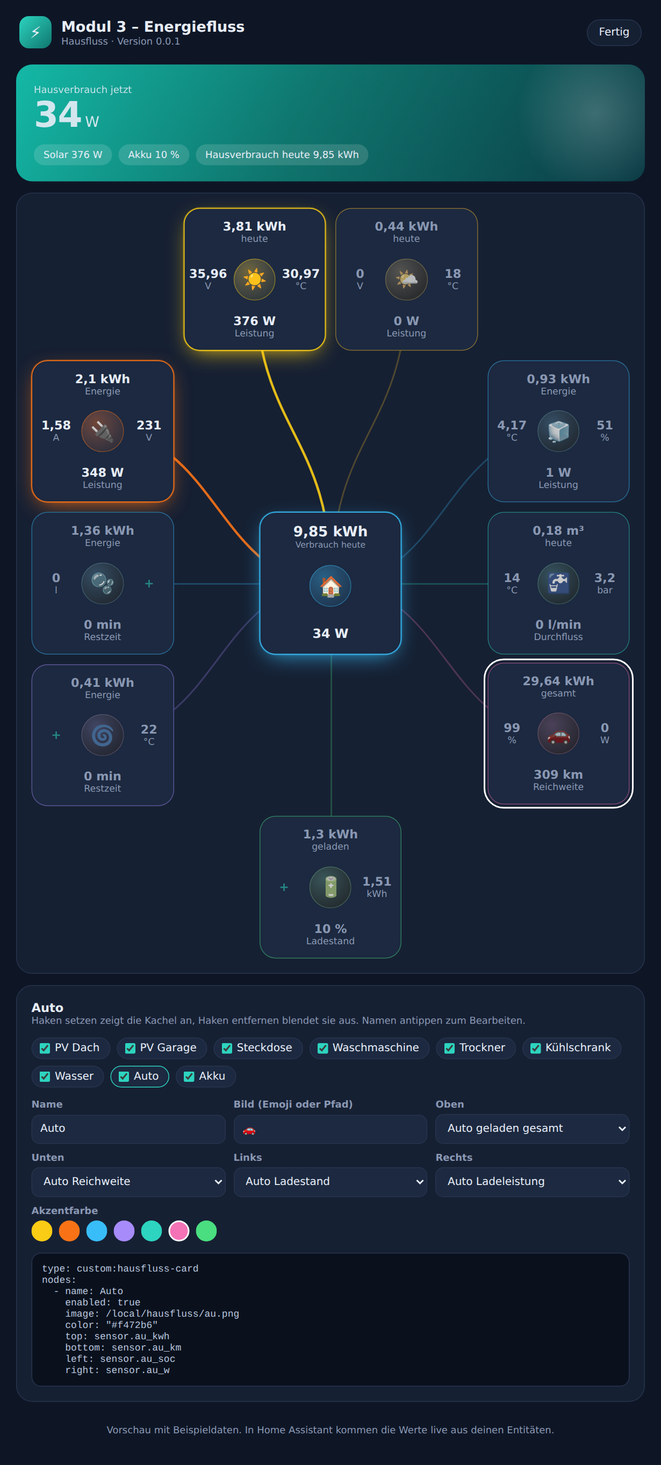
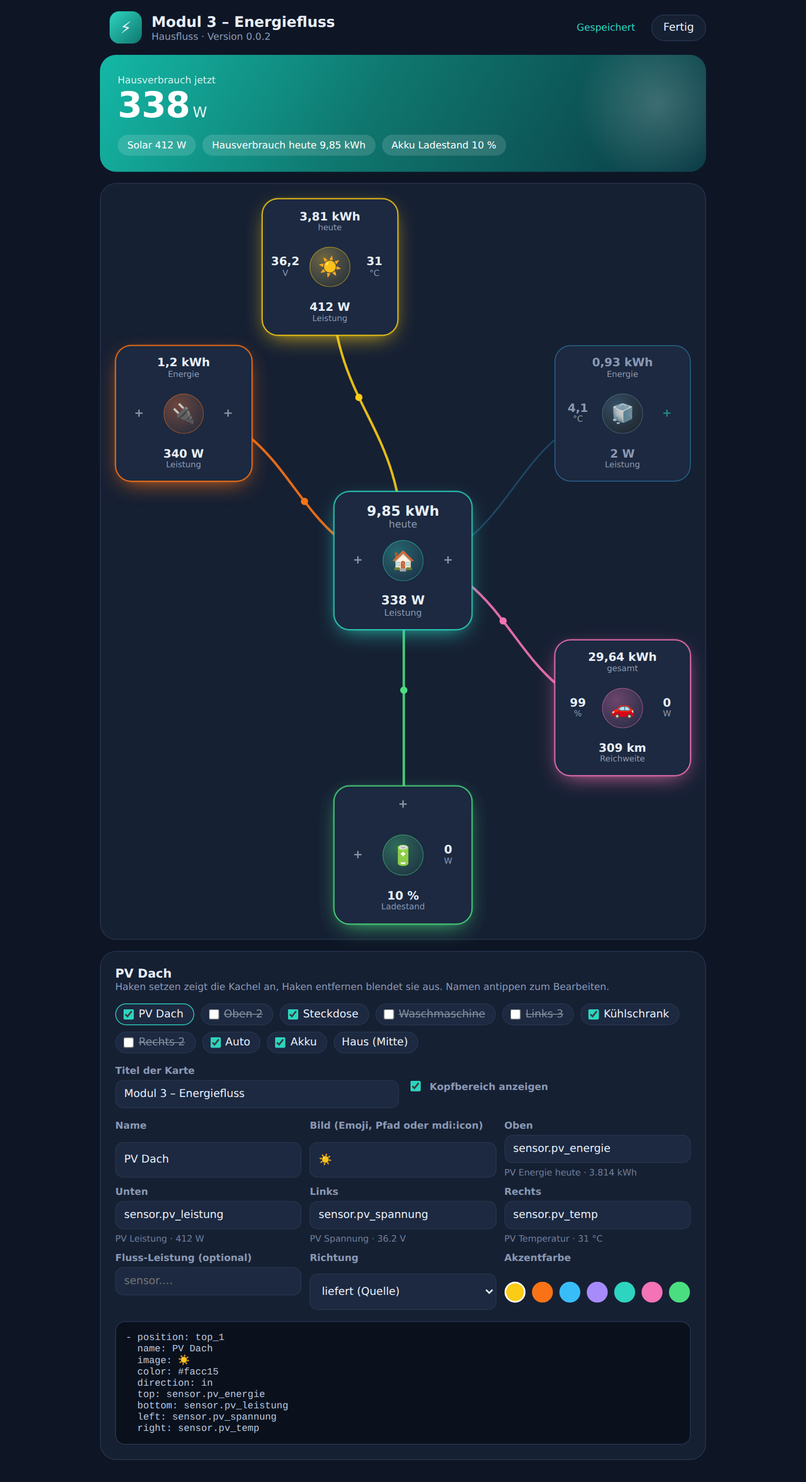
Add files via upload

Changed region(s): [[0.0, 0.0, 0.9886, 0.9978], [0.6488, 0.2183, 0.9577, 0.5613], [0.8033, 0.9666, 0.8341, 0.9978]]

diff --git a/custom_components/hausfluss/frontend/hausfluss-card.js b/custom_components/hausfluss/frontend/hausfluss-card.js
@@ -6,40 +6,52 @@ const POS = {
   right_1: [4, 2, 'out', '#38bdf8'], right_2: [4, 3, 'out', '#2dd4bf'], right_3: [4, 4, 'out', '#f472b6'],
   bottom: [2, 5, 'out', '#4ade80'],
 };
-const POSNAME = { top_1: 'Oben 1', top_2: 'Oben 2', left_1: 'Links 1', left_2: 'Links 2', left_3: 'Links 3', right_1: 'Rechts 1', right_2: 'Rechts 2', right_3: 'Rechts 3', bottom: 'Unten', hub: 'Haus (Mitte)' };
+const POSNAME = { top_1: 'Oben 1', top_2: 'Oben 2', left_1: 'Links 1', left_2: 'Links 2', left_3: 'Links 3', right_1: 'Rechts 1', right_2: 'Rechts 2', right_3: 'Rechts 3', bottom: 'Unten' };
 const SIDES = ['top', 'bottom', 'left', 'right'];
+const FL = { top: 'Oben', bottom: 'Unten', left: 'Links', right: 'Rechts' };
+const SW = ['#facc15', '#f97316', '#38bdf8', '#a78bfa', '#2dd4bf', '#f472b6', '#4ade80'];
 const esc = (s) => String(s ?? '').replace(/[&<>"]/g, (c) => ({ '&': '&amp;', '<': '&lt;', '>': '&gt;', '"': '&quot;' }[c]));
 const img = (v) => /^(\/|https?:)/.test(v) ? `<img src="${esc(v)}" alt="">` : /^mdi:/.test(v) ? `<ha-icon icon="${esc(v)}"></ha-icon>` : esc(v);
+const toW = (st) => { const v = parseFloat(st?.state); return isNaN(v) ? NaN : /^kW$/i.test(st.attributes.unit_of_measurement || '') ? v * 1000 : v; };
 
 const CSS = `
 :host{display:block}
-ha-card{display:block;background:#162033;color:#e8eef8;border:1px solid #26344d;border-radius:20px;padding:16px;font-family:inherit}
-.head{display:flex;align-items:center;gap:10px;margin:0 2px 14px;font-size:17px;font-weight:700}
-.head i{width:34px;height:34px;border-radius:10px;background:linear-gradient(135deg,#2dd4bf,#0f766e);display:grid;place-items:center;font-style:normal}
-.board{position:relative}
+ha-card{display:block;background:none;box-shadow:none;border:none;color:#e8eef8;font-family:inherit}
+.wrap{display:grid;gap:14px}
+.head{display:flex;align-items:center;gap:12px;font-size:18px;font-weight:700}
+.head i{width:40px;height:40px;border-radius:12px;background:linear-gradient(135deg,#2dd4bf,#0f766e);display:grid;place-items:center;font-style:normal}
+.hero{border-radius:20px;padding:20px 22px;background:linear-gradient(120deg,#14b8a6 0%,#0f766e 45%,#0b3b45 100%);position:relative;overflow:hidden;color:#fff}
+.hero::after{content:"";position:absolute;right:-40px;top:-40px;width:200px;height:200px;border-radius:50%;background:radial-gradient(circle,rgba(255,255,255,.2),transparent 70%)}
+.hero small{font-size:12px;opacity:.85}.big{font-size:44px;font-weight:800;line-height:1.1;letter-spacing:-.02em}
+.big span{font-size:18px;font-weight:500;margin-left:4px;opacity:.9}
+.chips{display:flex;flex-wrap:wrap;gap:8px;margin-top:12px;position:relative;z-index:1}.chip{background:rgba(255,255,255,.14);border-radius:999px;padding:6px 12px;font-size:12px}
+.board{background:#162033;border:1px solid #26344d;border-radius:20px;padding:18px;position:relative}
 .grid{position:relative;display:grid;grid-template-columns:repeat(4,1fr);gap:12px;z-index:1}
 svg{position:absolute;inset:0;width:100%;height:100%;z-index:0;pointer-events:none;overflow:visible}
 .cell{display:flex;justify-content:center;align-items:center}.span2{grid-column:2/4}.span2 .node{width:calc(50% - 6px)}
 .node{--c:#2dd4bf;container-type:inline-size;width:100%;aspect-ratio:1;position:relative;border-radius:20px;background:#1c2940;border:1.5px solid color-mix(in srgb,var(--c) 45%,transparent);transition:border-color .2s,box-shadow .2s}
 .node.on{border-color:var(--c);box-shadow:0 0 0 1px color-mix(in srgb,var(--c) 40%,transparent),0 8px 28px -10px var(--c)}
+.edit .node{cursor:pointer}.node.sel{outline:2px solid #fff;outline-offset:3px}
 .img{position:absolute;left:50%;top:50%;width:30%;aspect-ratio:1;transform:translate(-50%,-50%);border-radius:50%;display:grid;place-items:center;font-size:14cqw;overflow:hidden;background:radial-gradient(circle at 35% 30%,color-mix(in srgb,var(--c) 38%,transparent),color-mix(in srgb,var(--c) 10%,#1c2940) 75%);box-shadow:inset 0 0 0 1px color-mix(in srgb,var(--c) 40%,transparent)}
 .img img{width:100%;height:100%;object-fit:cover}.img ha-icon{--mdc-icon-size:14cqw}
 .node:not(.on) .img{filter:saturate(.45) brightness(.8)}
 .s{position:absolute;font-size:8.5cqw;font-weight:700;color:#8a98b3;white-space:nowrap;line-height:1.15;text-align:center;cursor:pointer}
 .node.on .s{color:#e8eef8}.s i{display:block;font-style:normal;font-size:.72em;font-weight:500;color:#8a98b3}
+.s.e{color:#2dd4bf;opacity:.55}
 .s.t{top:8%;left:50%;transform:translateX(-50%)}.s.b{bottom:8%;left:50%;transform:translateX(-50%)}
 .s.l{left:3%;top:50%;transform:translateY(-50%);width:28%}.s.r{right:3%;top:50%;transform:translateY(-50%);width:28%}
 .hub .s.t{font-size:10cqw}.hub .s.b{font-size:9cqw}
+@media (prefers-reduced-motion:reduce){.node{transition:none}}
 `;
 
 class HausflussCard extends HTMLElement {
-  constructor() { super(); this.attachShadow({ mode: 'open' }); }
+  constructor() { super(); this.attachShadow({ mode: 'open' }); this._edit = false; this._sel = null; }
   static getConfigElement() { return document.createElement('hausfluss-card-editor'); }
   static getStubConfig() { return { title: 'Modul 3 – Energiefluss', hub: { name: 'Haus' }, nodes: [{ position: 'top_1', name: 'PV Dach', image: '☀' }] }; }
-  getCardSize() { return 9; }
+  getCardSize() { return 10; }
   setConfig(c) { if (!c) throw new Error('Konfiguration fehlt'); this._c = { nodes: [], ...c }; this._build(); }
   set hass(h) { this._h = h; this._upd(); }
-  connectedCallback() { this._ro = new ResizeObserver(() => this._lines()); const b = this.shadowRoot.querySelector('.board'); if (b) this._ro.observe(b); }
+  setEdit(on, sel) { this._edit = !!on; this._sel = sel || null; this._upd(); }
   disconnectedCallback() { this._ro && this._ro.disconnect(); }
 
   _build() {
@@ -48,11 +60,14 @@ class HausflussCard extends HTMLElement {
     this._map = { hub }; ns.forEach((n) => (this._map[n.position] = n));
     const node = (n) => {
       const col = n.color || (POS[n.position] || [])[3] || '#2dd4bf';
-      return `<div class="node${n.position === 'hub' ? ' hub on' : ''}" data-p="${n.position}" style="--c:${col}">${SIDES.map((s) => `<div class="s ${s[0]}" data-e="${esc(n[s])}" data-s="${s}"></div>`).join('')}<div class="img">${img(n.image || (n.position === 'hub' ? '🏠' : '⚡'))}</div></div>`;
+      return `<div class="node${n.position === 'hub' ? ' hub on' : ''}" data-p="${n.position}" style="--c:${col}">${SIDES.map((s) => `<div class="s ${s[0]}" data-e="${esc(n[s])}"></div>`).join('')}<div class="img">${img(n.image || (n.position === 'hub' ? '🏠' : '⚡'))}</div></div>`;
     };
-    const cells = ns.map((n) => { const p = POS[n.position]; const b = n.position === 'bottom'; return `<div class="cell${b ? ' span2' : ''}" style="grid-column:${b ? '2/4' : p[0]};grid-row:${p[1]}">${node(n)}</div>`; }).join('');
-    this.shadowRoot.innerHTML = `<style>${CSS}</style><ha-card>${c.hide_header ? '' : `<div class="head"><i>⚡</i>${esc(c.title || 'Modul 3 – Energiefluss')}</div>`}<div class="board"><svg></svg><div class="grid">${cells}<div class="cell span2" style="grid-row:3">${node(hub)}</div></div></div></ha-card>`;
-    this.shadowRoot.querySelectorAll('.s').forEach((el) => (el.onclick = () => el.dataset.e && this.dispatchEvent(new CustomEvent('hass-more-info', { detail: { entityId: el.dataset.e }, bubbles: true, composed: true }))));
+    const cells = ns.map((n) => { const p = POS[n.position], b = n.position === 'bottom'; return `<div class="cell${b ? ' span2' : ''}" style="grid-column:${b ? '2/4' : p[0]};grid-row:${p[1]}">${node(n)}</div>`; }).join('');
+    const head = c.hide_header ? '' : `<div class="head"><i>⚡</i>${esc(c.title || 'Modul 3 – Energiefluss')}</div>`;
+    const hero = c.show_hero === false ? '' : '<div class="hero"><small id="hl">Hausverbrauch jetzt</small><div class="big"><b id="hv">–</b><span>W</span></div><div class="chips" id="hc"></div></div>';
+    this.shadowRoot.innerHTML = `<style>${CSS}</style><ha-card><div class="wrap" id="w">${head}${hero}<div class="board"><svg></svg><div class="grid">${cells}<div class="cell span2" style="grid-row:3">${node(hub)}</div></div></div></div></ha-card>`;
+    this.shadowRoot.querySelectorAll('.s').forEach((el) => (el.onclick = () => !this._edit && el.dataset.e && this.dispatchEvent(new CustomEvent('hass-more-info', { detail: { entityId: el.dataset.e }, bubbles: true, composed: true }))));
+    this.shadowRoot.querySelectorAll('.node[data-p]').forEach((el) => (el.onclick = () => this._edit && this.dispatchEvent(new CustomEvent('hausfluss-select', { detail: { position: el.dataset.p }, bubbles: true, composed: true }))));
     this._sig = null; this._ro && this._ro.disconnect();
     this._ro = new ResizeObserver(() => this._lines()); this._ro.observe(this.shadowRoot.querySelector('.board'));
     this._upd();
@@ -67,15 +82,36 @@ class HausflussCard extends HTMLElement {
 
   _upd() {
     const h = this._h, r = this.shadowRoot; if (!h || !r.querySelector('.grid')) return;
+    const lang = h.locale?.language || 'de';
+    r.getElementById('w').classList.toggle('edit', this._edit);
     r.querySelectorAll('.s').forEach((el) => {
       const id = el.dataset.e; let html = '';
-      if (id) { const [v, u, l] = this._fmt(id); html = /[lr]/.test(el.className.split(' ')[1]) ? `${v}<i>${esc(u)}</i>` : `${v} ${esc(u)}<i>${esc(l)}</i>`; el.title = (h.states[id]?.attributes.friendly_name) || id; }
+      if (id) { const [v, u, l] = this._fmt(id); html = /[lr]/.test(el.className.split(' ')[1]) ? `${v}<i>${esc(u)}</i>` : `${v} ${esc(u)}<i>${esc(l)}</i>`; el.title = h.states[id]?.attributes.friendly_name || id; }
+      else if (this._edit) html = '+';
+      el.classList.toggle('e', !id && this._edit);
       if (el._v !== html) { el._v = html; el.innerHTML = html; }
     });
+    const hv = r.getElementById('hv');
+    if (hv) {
+      const hb = this._map.hub, pe = hb.power || hb.bottom, w = pe && h.states[pe] ? toW(h.states[pe]) : NaN;
+      hv.textContent = isNaN(w) ? '–' : Math.abs(Math.round(w)).toLocaleString(lang);
+      r.getElementById('hl').textContent = !isNaN(w) && w < 0 ? 'Einspeisung jetzt' : 'Hausverbrauch jetzt';
+      const ch = []; let sol = 0, has = false;
+      Object.values(this._map).forEach((n) => {
+        if (n.position === 'hub' || (n.direction || POS[n.position][2]) !== 'in') return;
+        const e = n.power || n.bottom, v = e && h.states[e] ? toW(h.states[e]) : NaN; if (!isNaN(v)) { sol += v; has = true; }
+      });
+      if (has) ch.push(`Solar ${Math.round(sol).toLocaleString(lang)} W`);
+      if (hb.top && h.states[hb.top]) { const [v, u] = this._fmt(hb.top); ch.push(`Hausverbrauch heute ${v} ${u}`); }
+      (hb.chips || []).forEach((id) => { if (h.states[id]) { const [v, u] = this._fmt(id); ch.push(`${h.states[id].attributes.friendly_name || id} ${v} ${u}`); } });
+      const html = ch.map((t) => `<div class="chip">${esc(t)}</div>`).join(''), hc = r.getElementById('hc');
+      if (hc._v !== html) { hc._v = html; hc.innerHTML = html; }
+    }
     let sig = '';
     r.querySelectorAll('.node[data-p]').forEach((el) => {
-      const n = this._map[el.dataset.p], pe = n.power || n.bottom, v = pe && h.states[pe] ? parseFloat(h.states[pe].state) : 0;
+      const n = this._map[el.dataset.p], pe = n.power || n.bottom, v = pe && h.states[pe] ? toW(h.states[pe]) : 0;
       const on = el.dataset.p === 'hub' || Math.abs(v) > 5; el.classList.toggle('on', on); sig += el.dataset.p + (on ? 1 : 0);
+      el.classList.toggle('sel', this._edit && el.dataset.p === this._sel);
     });
     if (sig !== this._sig) { this._sig = sig; this._lines(); }
   }
@@ -94,57 +130,99 @@ class HausflussCard extends HTMLElement {
   }
 }
 
-const LABEL = { title: 'Titel', enabled: 'Kachel anzeigen', name: 'Name', image: 'Bild (Pfad, Emoji oder mdi:icon)', color: 'Akzentfarbe (z. B. #2dd4bf)', direction: 'Richtung', top: 'Oben', bottom: 'Unten', left: 'Links', right: 'Rechts', power: 'Fluss-Leistung (optional, sonst „Unten“)' };
-const ENT = (name) => ({ name, selector: { entity: {} } });
+const ECSS = `
+:host{display:block;color:#e8eef8;font-family:inherit}
+.panel{background:#162033;border:1px solid #26344d;border-radius:20px;padding:18px;display:grid;gap:14px}
+h2{margin:0;font-size:15px}p{margin:0;font-size:12px;color:#8a98b3}
+.tgl{display:flex;flex-wrap:wrap;gap:8px}
+.tg{display:flex;align-items:center;gap:6px;background:#1c2940;border:1px solid #26344d;border-radius:999px;padding:5px 12px 5px 9px}
+.tg.cur{border-color:#2dd4bf}.tg.off button{opacity:.5;text-decoration:line-through}
+.tg button{background:none;border:0;color:#e8eef8;font:600 12px inherit;font-family:inherit;cursor:pointer;padding:0}
+.tg input{accent-color:#2dd4bf;margin:0}
+.f{display:grid;grid-template-columns:repeat(auto-fit,minmax(200px,1fr));gap:10px}
+label{display:grid;gap:5px;font-size:12px;color:#8a98b3;font-weight:600}
+input:not([type=checkbox]),select{background:#1c2940;border:1px solid #26344d;color:#e8eef8;border-radius:10px;padding:9px 10px;font:500 13px inherit;font-family:inherit;min-width:0;width:100%;box-sizing:border-box}
+input:focus-visible,select:focus-visible,button:focus-visible{outline:2px solid #2dd4bf;outline-offset:2px}
+small{font-weight:500;font-size:11px;color:#6f7e9a;min-height:13px}
+.sw{display:flex;gap:8px;align-items:center;min-height:36px}.sw button{width:26px;height:26px;border-radius:50%;border:2px solid transparent;cursor:pointer}.sw button.a{border-color:#fff}
+.row{display:flex;align-items:center;gap:8px;font-size:12px;color:#8a98b3;font-weight:600}.row input{accent-color:#2dd4bf}
+pre{margin:0;background:#0a111d;border:1px solid #26344d;border-radius:12px;padding:12px;font-size:12px;overflow-x:auto;color:#b8c5dd;max-height:240px}
+`;
 
 class HausflussEditor extends HTMLElement {
-  setConfig(c) { this._c = c; this._forms ? this._sync() : this._draw(); }
-  set hass(h) { this._h = h; (this._forms ? Object.values(this._forms) : []).forEach((f) => (f.hass = h)); }
+  constructor() { super(); this.attachShadow({ mode: 'open' }); this._sel = 'top_1'; this._c = {}; }
+  setConfig(c) { if (this._built && JSON.stringify(c) === JSON.stringify(this._c)) return; this._c = c || {}; this._draw(); }
+  set hass(h) { this._h = h; this._dl(); }
+  select(p) { this._sel = p; this._draw(); }
+  _node(p) { return p === 'hub' ? this._c.hub || {} : (this._c.nodes || []).find((n) => n.position === p) || {}; }
+  _clean(o) { const r = {}; for (const k in o) { const v = o[k]; if (v !== '' && v != null && !(Array.isArray(v) && !v.length)) r[k] = v; } return r; }
+  _emit() { this.dispatchEvent(new CustomEvent('config-changed', { detail: { config: this._c }, bubbles: true, composed: true })); }
+  _top(patch) { this._c = this._clean({ ...this._c, ...patch }); this._emit(); }
+  _set(p, patch) {
+    const c = { ...this._c };
+    if (p === 'hub') c.hub = this._clean({ ...(c.hub || {}), ...patch });
+    else { const ns = [...(c.nodes || [])], i = ns.findIndex((n) => n.position === p), n = this._clean({ ...(i < 0 ? { position: p } : ns[i]), ...patch }); if (i < 0) ns.push(n); else ns[i] = n; c.nodes = ns; }
+    this._c = c; this._emit();
+  }
+  _hint(id) { const st = this._h?.states?.[id]; return st ? esc(`${st.attributes.friendly_name || id} · ${st.state} ${st.attributes.unit_of_measurement || ''}`) : ''; }
+  _picked(p) { this.dispatchEvent(new CustomEvent('hausfluss-selected', { detail: { position: p }, bubbles: true, composed: true })); }
+  _dl() {
+    const d = this.shadowRoot.getElementById('hf'); if (!d || !this._h || this._dlDone) return; this._dlDone = true;
+    d.innerHTML = Object.keys(this._h.states).sort().map((k) => `<option value="${esc(k)}">${esc(this._h.states[k].attributes.friendly_name || '')}</option>`).join('');
+  }
+  _chips() {
+    const c = this._c, p = this._sel;
+    this.shadowRoot.getElementById('tgl').innerHTML = Object.keys(POS).map((k) => {
+      const x = (c.nodes || []).find((q) => q.position === k), on = !!x && x.enabled !== false;
+      return `<span class="tg${k === p ? ' cur' : ''}${on ? '' : ' off'}"><input type="checkbox" data-k="${k}"${on ? ' checked' : ''} aria-label="${POSNAME[k]} anzeigen"><button data-s="${k}">${esc((x && x.name) || POSNAME[k])}</button></span>`;
+    }).join('') + `<span class="tg${p === 'hub' ? ' cur' : ''}"><button data-s="hub">${esc((c.hub && c.hub.name) || 'Haus')} (Mitte)</button></span>`;
+    this.shadowRoot.querySelectorAll('[data-k]').forEach((x) => (x.onchange = () => { const k = x.dataset.k; this._set(k, { enabled: x.checked }); this._sel = k; this._draw(); this._picked(k); }));
+    this.shadowRoot.querySelectorAll('[data-s]').forEach((b) => (b.onclick = () => { this._sel = b.dataset.s; this._draw(); this._picked(this._sel); }));
+  }
+  _yaml() {
+    const p = this._sel, n = this._node(p), L = [p === 'hub' ? 'hub:' : `- position: ${p}`];
+    Object.entries(n).filter(([k]) => k !== 'position').forEach(([k, v]) => L.push(`  ${k}: ${Array.isArray(v) ? '[' + v.join(', ') + ']' : v}`));
+    this.shadowRoot.getElementById('y').textContent = L.join('\n');
+  }
   _draw() {
-    this._forms = {};
-    const mk = (key, schema, header) => {
-      const f = document.createElement('ha-form'); f.schema = schema; f.computeLabel = (s) => LABEL[s.name] || s.name; f.hass = this._h;
-      f.addEventListener('value-changed', (e) => this._chg(key, e.detail.value)); this._forms[key] = f;
-      if (!header) return f;
-      const p = document.createElement('ha-expansion-panel'); p.header = header; p.outlined = true; p.appendChild(f); return p;
-    };
-    const nodeSchema = [{ name: 'enabled', selector: { boolean: {} } }, { name: 'name', selector: { text: {} } }, { name: 'image', selector: { text: {} } }, { name: 'color', selector: { text: {} } },
-      { name: 'direction', selector: { select: { options: [{ value: 'in', label: 'liefert (Quelle)' }, { value: 'out', label: 'verbraucht' }] } } }, ENT('top'), ENT('bottom'), ENT('left'), ENT('right'), ENT('power')];
-    const hubSchema = [{ name: 'name', selector: { text: {} } }, { name: 'image', selector: { text: {} } }, ENT('top'), ENT('bottom'), ENT('left'), ENT('right')];
-    this.innerHTML = ''; const box = document.createElement('div'); box.style.cssText = 'display:grid;gap:10px';
-    box.appendChild(mk('title', [{ name: 'title', selector: { text: {} } }]));
-    box.appendChild(mk('hub', hubSchema, POSNAME.hub));
-    Object.keys(POS).forEach((k) => box.appendChild(mk(k, nodeSchema, POSNAME[k])));
-    this.appendChild(box); this._sync();
-  }
-  _sync() {
-    const c = this._c, f = this._forms;
-    f.title.data = { title: c.title || '' }; f.hub.data = c.hub || {};
-    Object.keys(POS).forEach((k) => { const n = (c.nodes || []).find((x) => x.position === k); f[k].data = { enabled: false, direction: POS[k][2], ...(n || {}) }; });
-  }
-  _chg(key, val) {
-    let c = { ...this._c };
-    if (key === 'title') c.title = val.title; else if (key === 'hub') c.hub = val;
-    else {
-      const nodes = [...(c.nodes || [])], i = nodes.findIndex((n) => n.position === key), n = { ...val, position: key };
-      if (i < 0) nodes.push(n); else nodes[i] = n; c.nodes = nodes;
-    }
-    this._c = c; this.dispatchEvent(new CustomEvent('config-changed', { detail: { config: c }, bubbles: true, composed: true }));
+    this._built = true;
+    const c = this._c, p = this._sel, hub = p === 'hub', n = this._node(p), col = n.color || (POS[p] || [])[3] || '#2dd4bf';
+    const ent = (f, label, val) => `<label>${label}<input list="hf" data-f="${f}" value="${esc(val)}" placeholder="sensor.…" autocomplete="off"><small data-h="${f}">${this._hint(val)}</small></label>`;
+    const chips = (n.chips || []);
+    this.shadowRoot.innerHTML = `<style>${ECSS}</style><div class="panel"><div><h2>${esc(n.name || (hub ? 'Haus' : POSNAME[p]))}</h2><p>Haken setzen zeigt die Kachel an, Haken entfernen blendet sie aus. Namen antippen zum Bearbeiten.</p></div>
+<div class="tgl" id="tgl"></div>
+<div class="f"><label>Titel der Karte<input id="ti" value="${esc(c.title || '')}" placeholder="Modul 3 – Energiefluss"></label><label class="row"><input type="checkbox" id="sh"${c.show_hero === false ? '' : ' checked'}>Kopfbereich anzeigen</label></div>
+<div class="f"><label>Name<input data-f="name" value="${esc(n.name || '')}"></label><label>Bild (Emoji, Pfad oder mdi:icon)<input data-f="image" value="${esc(n.image || '')}" placeholder="/local/hausfluss/solar.png"></label>
+${SIDES.map((s) => ent(s, FL[s], n[s])).join('')}
+${hub ? [0, 1, 2].map((i) => ent('chip' + i, 'Chip ' + (i + 1) + ' (Kopfbereich)', chips[i] || '')).join('') : ent('power', 'Fluss-Leistung (optional)', n.power) + `<label>Richtung<select data-f="direction"><option value="in"${(n.direction || POS[p][2]) === 'in' ? ' selected' : ''}>liefert (Quelle)</option><option value="out"${(n.direction || POS[p][2]) === 'out' ? ' selected' : ''}>verbraucht</option></select></label><label>Akzentfarbe<div class="sw">${SW.map((x) => `<button data-c="${x}" style="background:${x}" class="${x === col ? 'a' : ''}" aria-label="Farbe ${x}"></button>`).join('')}</div></label>`}</div>
+<pre id="y"></pre><datalist id="hf"></datalist></div>`;
+    this._dlDone = false; this._dl(); this._chips(); this._yaml();
+    const r = this.shadowRoot;
+    r.getElementById('ti').onchange = (e) => this._top({ title: e.target.value.trim() });
+    r.getElementById('sh').onchange = (e) => this._top({ show_hero: e.target.checked ? undefined : false });
+    r.querySelectorAll('[data-f]').forEach((i) => (i.onchange = () => {
+      const f = i.dataset.f, v = i.value.trim();
+      if (/^chip\d$/.test(f)) { const cs = [0, 1, 2].map((k) => r.querySelector(`[data-f="chip${k}"]`).value.trim()).filter(Boolean); this._set('hub', { chips: cs }); }
+      else this._set(p, { [f]: v });
+      const h = r.querySelector(`[data-h="${f}"]`); if (h) h.innerHTML = this._hint(v);
+      this._chips(); this._yaml();
+    }));
+    r.querySelectorAll('[data-c]').forEach((b) => (b.onclick = () => { this._set(p, { color: b.dataset.c }); this._draw(); }));
   }
 }
 
 const DEFAULT_CFG = { title: 'Modul 3 – Energiefluss', hub: { name: 'Haus' }, nodes: [] };
 const PCSS = `
-:host{display:block;min-height:100%;background:var(--primary-background-color)}
-.bar{display:flex;align-items:center;gap:8px;height:56px;padding:0 12px;background:var(--app-header-background-color,#03a9f4);color:var(--app-header-text-color,#fff);position:sticky;top:0;z-index:2}
-.t{flex:1;font-size:20px;font-weight:500;white-space:nowrap;overflow:hidden;text-overflow:ellipsis}
-button{background:transparent;border:1px solid currentColor;color:inherit;border-radius:999px;padding:7px 16px;font:500 14px inherit;font-family:inherit;cursor:pointer}
-button:focus-visible{outline:2px solid currentColor;outline-offset:2px}
-.main{display:flex;gap:16px;padding:16px;align-items:flex-start;max-width:1400px;margin:0 auto;box-sizing:border-box}
-.cw{flex:1;min-width:0;max-width:820px;margin:0 auto}.ed{width:380px;flex:none}
-.hint{margin:0 0 12px;padding:12px 16px;border-radius:12px;background:var(--card-background-color);color:var(--secondary-text-color);font-size:14px}
-.msg{font-size:13px;opacity:.9}
-@media(max-width:900px){.main{flex-direction:column}.ed{width:100%}}`;
+:host{display:block;min-height:100%;background:#0e1626;color:#e8eef8;font-family:var(--paper-font-body1_-_font-family,system-ui,sans-serif)}
+.bar{display:flex;align-items:center;gap:12px;padding:14px;max-width:780px;margin:0 auto;box-sizing:border-box}
+ha-menu-button{color:#e8eef8}
+.logo{width:40px;height:40px;border-radius:12px;background:linear-gradient(135deg,#2dd4bf,#0f766e);display:grid;place-items:center;font-size:20px;flex:none}
+h1{margin:0;font-size:18px;font-weight:700}.tt p{margin:0;font-size:12px;color:#8a98b3}
+.msg{margin-left:auto;font-size:12px;color:#2dd4bf}
+button.pill{margin-left:auto;background:#162033;border:1px solid #26344d;color:#e8eef8;border-radius:999px;padding:8px 14px;font:600 12px inherit;font-family:inherit;cursor:pointer}
+.msg+button.pill{margin-left:8px}button.pill:hover{border-color:#2dd4bf}button.pill:focus-visible{outline:2px solid #2dd4bf;outline-offset:2px}
+.main{display:grid;gap:14px;padding:0 14px 28px;max-width:780px;margin:0 auto;box-sizing:border-box}
+.hint{padding:12px 16px;border-radius:14px;background:#162033;border:1px solid #26344d;color:#8a98b3;font-size:13px}`;
 
 class HausflussPanel extends HTMLElement {
   constructor() { super(); this.attachShadow({ mode: 'open' }); }
@@ -159,11 +237,6 @@ class HausflussPanel extends HTMLElement {
   set panel(_) {}
 
   async _start() {
-    try { // Editor-Bausteine von Home Assistant nachladen (ha-form, Entitätsauswahl)
-      const ch = await window.loadCardHelpers?.();
-      const c = await ch?.createCardElement({ type: 'entities', entities: [] });
-      await c?.constructor?.getConfigElement?.();
-    } catch (e) { /* optional */ }
     try { this._cfg = (await this._h.callWS({ type: 'hausfluss/get_config' })).config || DEFAULT_CFG; }
     catch (e) { this._cfg = DEFAULT_CFG; }
     this._draw();
@@ -171,22 +244,22 @@ class HausflussPanel extends HTMLElement {
 
   _draw() {
     const admin = !!this._h.user?.is_admin, r = this.shadowRoot;
-    r.innerHTML = `<style>${PCSS}</style><div class="bar"><ha-menu-button></ha-menu-button><div class="t"></div><span class="msg" id="m"></span>${admin ? '<button id="b">Anpassen</button>' : ''}</div><div class="main"><div class="cw"><div class="hint" id="hint" hidden>Noch keine Kachel angelegt. Tippe oben auf „Anpassen“, schalte Kacheln ein und wähle ihre Entitäten.</div></div><div class="ed" id="ed" hidden></div></div>`;
+    r.innerHTML = `<style>${PCSS}</style><div class="bar"><ha-menu-button></ha-menu-button><div class="logo">⚡</div><div class="tt"><h1></h1><p>Hausfluss · Version ${VERSION}</p></div><span class="msg" id="m"></span>${admin ? '<button class="pill" id="b">Anpassen</button>' : ''}</div><div class="main"><div class="hint" id="hint" hidden>Noch keine Kachel angelegt. Tippe oben auf „Anpassen“, setze bei einer Kachel den Haken und wähle ihre Entitäten.</div><div id="cw"></div><div id="ed" hidden></div></div>`;
     this._menu = r.querySelector('ha-menu-button'); this._menu.hass = this._h; this._menu.narrow = this._narrow;
-    this._card = document.createElement('hausfluss-card'); r.querySelector('.cw').appendChild(this._card);
+    this._card = document.createElement('hausfluss-card'); r.getElementById('cw').appendChild(this._card);
     this._apply();
-    if (admin) {
-      const ed = (this._ed = document.createElement('hausfluss-card-editor'));
-      ed.hass = this._h; ed.setConfig(this._cfg);
-      ed.addEventListener('config-changed', (e) => this._save(e.detail.config));
-      r.getElementById('ed').appendChild(ed);
-      r.getElementById('b').onclick = () => { const e = r.getElementById('ed'); e.hidden = !e.hidden; r.getElementById('b').textContent = e.hidden ? 'Anpassen' : 'Fertig'; };
-    }
+    if (!admin) return;
+    const ed = (this._ed = document.createElement('hausfluss-card-editor')), box = r.getElementById('ed'), b = r.getElementById('b');
+    ed.hass = this._h; ed.setConfig(this._cfg); box.appendChild(ed);
+    ed.addEventListener('config-changed', (e) => this._save(e.detail.config));
+    ed.addEventListener('hausfluss-selected', (e) => this._card.setEdit(!box.hidden, e.detail.position));
+    this._card.addEventListener('hausfluss-select', (e) => { ed.select(e.detail.position); this._card.setEdit(true, e.detail.position); });
+    b.onclick = () => { box.hidden = !box.hidden; b.textContent = box.hidden ? 'Anpassen' : 'Fertig'; this._card.setEdit(!box.hidden, ed._sel); };
   }
 
   _apply() {
     const r = this.shadowRoot, c = this._cfg;
-    r.querySelector('.t').textContent = c.title || DEFAULT_CFG.title;
+    r.querySelector('h1').textContent = c.title || DEFAULT_CFG.title;
     this._card.setConfig({ ...c, hide_header: true }); this._card.hass = this._h;
     r.getElementById('hint').hidden = !(this._h.user?.is_admin && !(c.nodes || []).some((n) => n.enabled !== false));
   }
@@ -204,5 +277,5 @@ class HausflussPanel extends HTMLElement {
 
 [['hausfluss-card', HausflussCard], ['hausfluss-card-editor', HausflussEditor], ['hausfluss-panel', HausflussPanel]].forEach(([n, c]) => { if (!customElements.get(n)) customElements.define(n, c); });
 window.customCards = window.customCards || [];
-window.customCards.push({ type: 'hausfluss-card', name: 'Hausfluss – Modul 3 Energiefluss', description: 'Energiefluss mit wählbaren Kacheln und je vier Entitäten pro Kachel', preview: true });
+if (!window.customCards.some((x) => x.type === 'hausfluss-card')) window.customCards.push({ type: 'hausfluss-card', name: 'Hausfluss – Modul 3 Energiefluss', description: 'Energiefluss mit wählbaren Kacheln und je vier Entitäten pro Kachel', preview: true });
 console.info(`%c HAUSFLUSS %c v${VERSION} `, 'background:#2dd4bf;color:#0e1626;font-weight:700', 'background:#162033;color:#e8eef8');

diff --git a/README.md b/README.md
@@ -6,9 +6,9 @@ Jede Kachel hat ein Bild in der Mitte und je eine Entität oben, unten, links un
 ## Vorschau
 ![Übersicht](images/uebersicht.png)
 
-| Editor | Kacheln abgewählt | Mobil |
-|---|---|---|
-| <img src="images/editor.png" width="280"> | <img src="images/kacheln-abgewaehlt.png" width="280"> | <img src="images/mobil.png" width="200"> |
+| Kacheln abgewählt | Mobil |
+|---|---|
+| <img src="images/kacheln-abgewaehlt.png" width="320"> | <img src="images/mobil.png" width="220"> |
 
 Die Bilder zeigen die Vorschau mit Beispieldaten.
 
@@ -17,11 +17,13 @@ Mit der Integration entsteht automatisch eine Seite **Energiefluss** links in de
 
 ![Seite in der Seitenleiste](images/seitenleiste.png)
 
-- Die Karte läuft dort im Vollbild.
-- Über **Anpassen** schaltest du Kacheln an oder ab und wählst Entitäten, Bilder und Farben. Das Ändern ist Administratoren vorbehalten.
+- Die Karte läuft dort im Vollbild, mit Kopfbereich („Hausverbrauch jetzt“, Solar, Hausverbrauch heute und eigene Chips).
+- Über **Anpassen** öffnet sich die Einrichtung der Kacheln: Haken setzen oder entfernen blendet eine Kachel ein oder aus, den Namen antippen zum Bearbeiten, oder die Kachel direkt auf der Karte antippen. Pro Kachel stellst du Name, Bild, Farbe, Richtung und die Entitäten für oben, unten, links und rechts ein. Entitäten findest du über die Eingabe mit Vorschlägen. Das Ändern ist Administratoren vorbehalten.
 - Gespeichert wird zentral, alle Benutzer sehen dieselbe Seite.
 - Titel, Symbol und „nur für Administratoren“ stellst du unter *Einstellungen → Geräte & Dienste → Hausfluss → Konfigurieren* ein.
-- Die Karte steht zusätzlich weiter in jedem eigenen Dashboard zur Verfügung (siehe YAML-Beispiel).
+- Die Karte steht zusätzlich weiter in jedem eigenen Dashboard zur Verfügung (siehe YAML-Beispiel). Dort öffnet der Karteneditor dieselbe Einrichtung.
+
+![Einrichtung der Kacheln](images/editor.png)
 
 ## Installation (HACS, Kategorie Integration)
 1. HACS → ⋮ → *Benutzerdefinierte Repositories* → Repository-URL eintragen, Kategorie **Integration**.
@@ -36,11 +38,13 @@ Beim Veröffentlichen auf GitHub ein Release mit dem Tag `v0.0.2` anlegen und `D
 ```yaml
 type: custom:hausfluss-card
 title: Modul 3 – Energiefluss
+show_hero: true        # false blendet den Kopfbereich aus
 hub:
   name: Haus
   image: 🏠
-  top: sensor.haus_energie_heute
-  bottom: sensor.haus_leistung
+  top: sensor.haus_energie_heute   # Chip „Hausverbrauch heute“
+  bottom: sensor.haus_leistung     # große Zahl im Kopfbereich
+  chips: [sensor.akku_ladestand]   # weitere Chips (optional)
 nodes:
   - position: top_1        # top_1, top_2, left_1-3, right_1-3, bottom
     enabled: true          # false blendet die Kachel aus

diff --git a/CHANGELOG.md b/CHANGELOG.md
@@ -4,7 +4,9 @@
 - Die Integration legt automatisch eine Seite **Energiefluss** in der Seitenleiste an.
 - Auf der Seite: Karte im Vollbild und „Anpassen“ mit dem Editor (Kacheln an/aus, Entitäten, Bilder). Gespeichert wird zentral für alle Benutzer, ändern dürfen nur Administratoren.
 - Optionen der Integration: Titel, Symbol und Sichtbarkeit (nur Administratoren) des Eintrags.
-- Karte: neue Option `hide_header` blendet die Titelzeile aus.
+- Neues Aussehen wie in der Vorschau: Kopfbereich mit „Hausverbrauch jetzt“ und Chips (Solar, Hausverbrauch heute, eigene Chips), Karte in dunklen Kacheln.
+- Neue Einrichtung der Kacheln im selben Stil: Kachel-Liste mit Haken, Entitäten mit Vorschlägen, Farbauswahl und YAML-Vorschau. Kacheln lassen sich auch direkt auf der Karte antippen.
+- Karte: neue Optionen `hide_header`, `show_hero` und `hub.chips`.
 
 ## 0.0.1
 - Erste Version: Karte mit bis zu 9 Kacheln und je vier Entitäten, grafischer Editor, Einrichtung per Oberfläche.
